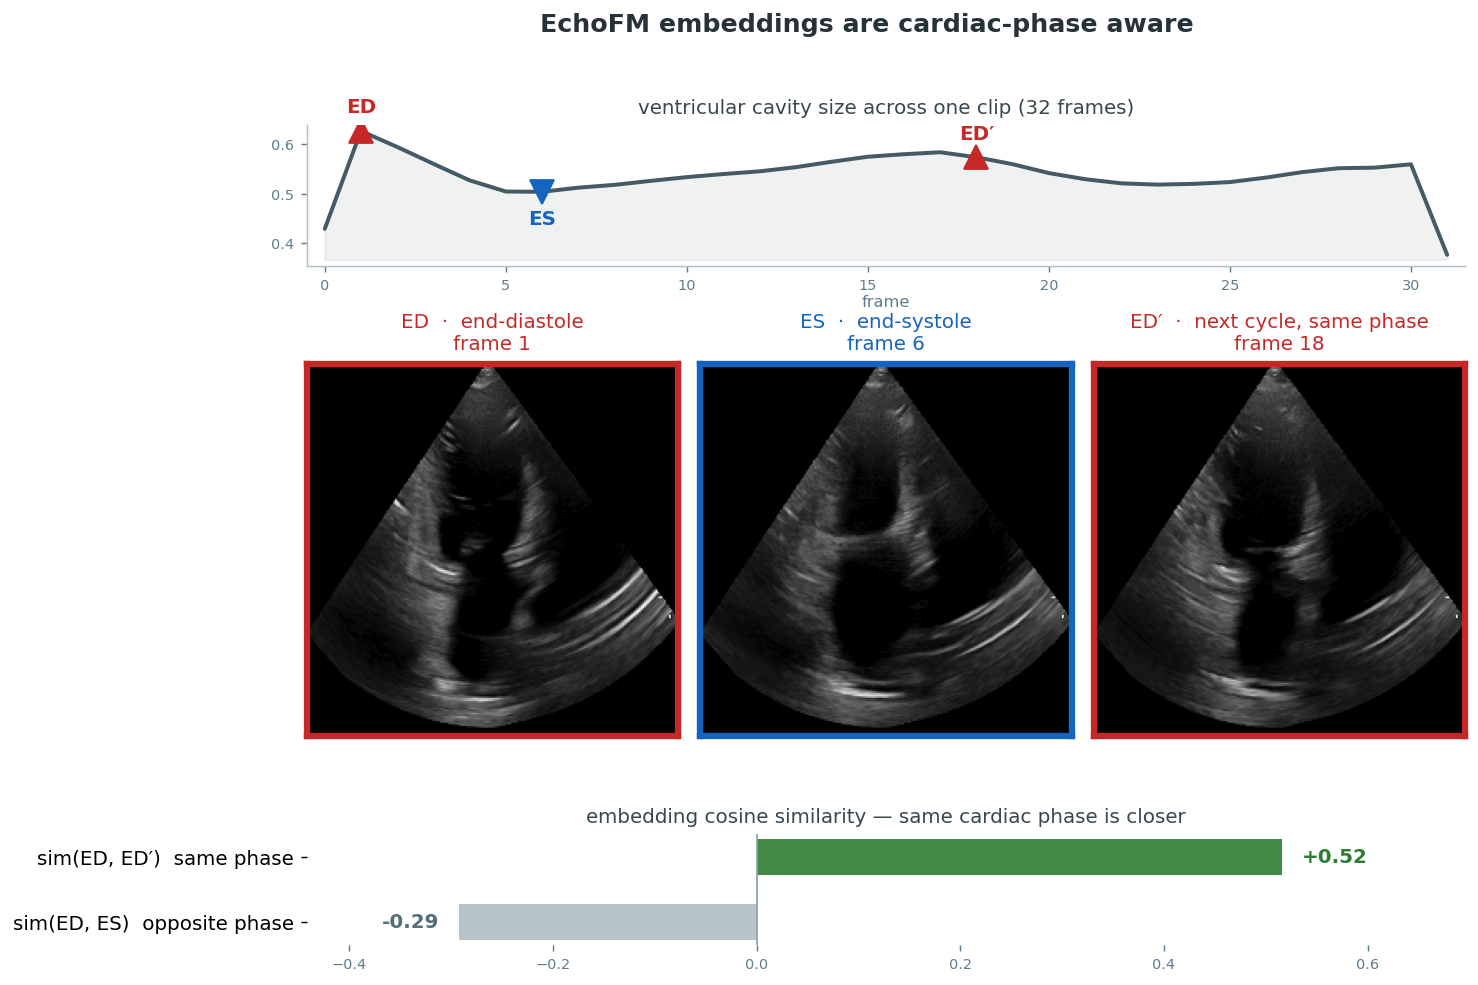
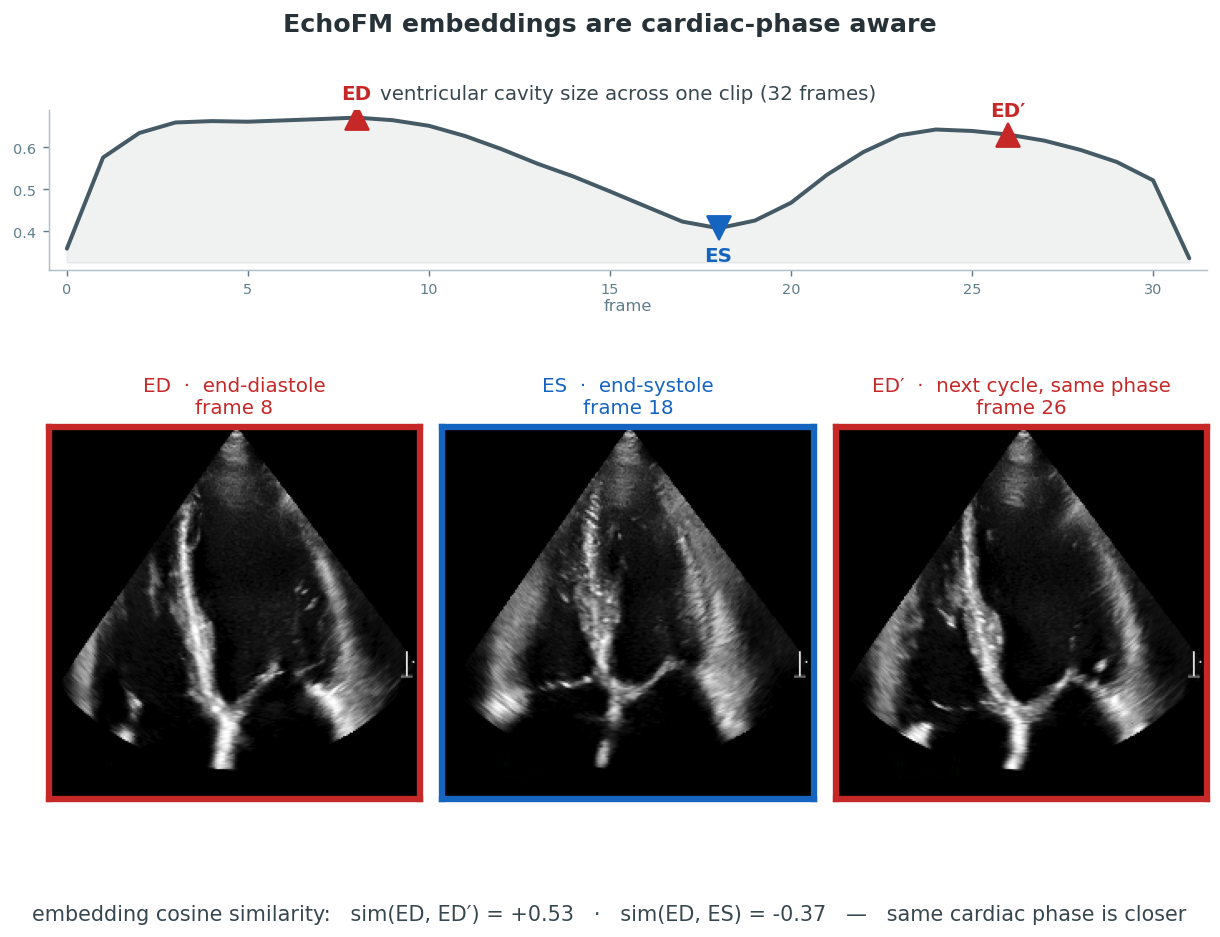
README: clearer ED/ES sample (contraction-ranked selection), drop arXiv badge, rework method description

diff --git a/tools/make_readme_figure.py b/tools/make_readme_figure.py
@@ -50,10 +50,8 @@ def is_bmode(imgs):
 
 
 def render(frames, area, ed1, es, ed2, e_same, e_opp, path):
-    fig = plt.figure(figsize=(11.5, 8.2), facecolor="white")
-    gs = fig.add_gridspec(
-        3, 3, height_ratios=[0.95, 2.6, 0.75], hspace=0.42, wspace=0.06
-    )
+    fig = plt.figure(figsize=(11.5, 7.2), facecolor="white")
+    gs = fig.add_gridspec(2, 3, height_ratios=[0.95, 2.6], hspace=0.42, wspace=0.06)
 
     ax = fig.add_subplot(gs[0, :])
     t = np.arange(len(area))
@@ -92,25 +90,10 @@ def render(frames, area, ed1, es, ed2, e_same, e_opp, path):
         ax.set_xticks([])
         ax.set_yticks([])
 
-    ax = fig.add_subplot(gs[2, :])
-    ax.barh([1, 0], [e_same, e_opp], height=0.55,
-            color=["#2e7d32", "#b0bec5"], alpha=0.9)
-    ax.set_yticks([1, 0])
-    ax.set_yticklabels(["sim(ED, ED′)  same phase", "sim(ED, ES)  opposite phase"],
-                       fontsize=11)
-    for y, v in [(1, e_same), (0, e_opp)]:
-        ax.text(v + (0.02 if v >= 0 else -0.02), y, f"{v:+.2f}",
-                va="center", ha="left" if v >= 0 else "right",
-                fontsize=11, fontweight="bold",
-                color="#2e7d32" if y == 1 else "#546e7a")
-    ax.axvline(0, color="#90a4ae", lw=1)
-    lo = min(0.0, e_opp) - 0.15
-    ax.set_xlim(lo, max(e_same, 0) + 0.18)
-    ax.set_title("embedding cosine similarity — same cardiac phase is closer",
-                 fontsize=11, color="#37474f")
-    for s in ax.spines.values():
-        s.set_visible(False)
-    ax.tick_params(axis="x", labelsize=8, colors="#607d8b")
+    fig.text(0.5, 0.015,
+             f"embedding cosine similarity:   sim(ED, ED′) = {e_same:+.2f}   ·   "
+             f"sim(ED, ES) = {e_opp:+.2f}   —   same cardiac phase is closer",
+             ha="center", fontsize=11.5, color="#37474f")
 
     fig.suptitle("EchoFM embeddings are cardiac-phase aware", fontsize=14,
                  fontweight="bold", color="#263238", y=0.985)
@@ -151,8 +134,13 @@ def main():
         tk = lambda f: min(f // 4, 7)
         if len({tk(ed1), tk(ed2), tk(es)}) < 3:
             continue
-        # require visible contraction in the cavity curve
-        if area[ed1] - area[es] < 0.03 or area[ed2] - area[es] < 0.03:
+        # visual clarity first: strong fractional contraction of the cavity
+        contraction = min(area[ed1], area[ed2]) - area[es]
+        frac = contraction / max(area[ed1], 1e-6)
+        if frac < 0.2:
+            continue
+        # visible image (not too dark)
+        if float(imgs.mean()) < 0.07:
             continue
         e = embed_sim_map(model, imgs)
         e_same = float(e[tk(ed1), tk(ed2)])
@@ -162,10 +150,11 @@ def main():
         # keep the exact sampled window: the dataset draws a random temporal
         # window per __getitem__, so re-loading would desync frames and labels
         candidates.append(
-            (e_same - e_opp, int(clip_i), ed1, es, ed2, e_same, e_opp,
+            (frac, int(clip_i), ed1, es, ed2, e_same, e_opp,
              imgs[0].cpu(), area)
         )
 
+    # rank by visual contraction, not embedding gap
     candidates.sort(key=lambda c: -c[0])
     print(f"{len(candidates)} strong B-mode candidates")
     for rank, (gap, clip_i, ed1, es, ed2, e_same, e_opp, imgs_c, area) in enumerate(

diff --git a/README.md b/README.md
@@ -1,7 +1,6 @@
 # EchoFM: A Video Vision Foundation Model for Echocardiography
 
 [![IEEE TMI](https://img.shields.io/badge/IEEE%20TMI-10.1109%2FTMI.2025.3580713-00629B)](https://ieeexplore.ieee.org/document/11040094)
-[![arXiv](https://img.shields.io/badge/arXiv-2410.23413-b31b1b)](https://arxiv.org/abs/2410.23413)
 [![Hugging Face](https://img.shields.io/badge/%F0%9F%A4%97%20Hugging%20Face-sekeun%2FEchoFM-FFD21E)](https://huggingface.co/sekeun/EchoFM)
 [![License](https://img.shields.io/badge/license-CC%20BY--NC--ND%204.0-lightgrey)](#license)
 
@@ -28,16 +27,19 @@ disease-detection tasks.
 
 ## How it works
 
-On top of a video MAE (75% masking, per-patch normalized targets), EchoFM adds two
-cycle-aware components:
+EchoFM's pretraining couples masked video modeling with the physiology of the beating
+heart. The objective rests on two pillars designed for echocardiography:
 
-- **Spatio-temporally consistent masking** — one spatial mask shared across all
-  frames, so the encoder must explain appearance changes through cardiac motion
-  rather than by copying from unmasked locations in other frames.
-- **Periodic contrastive learning** — a pixel-space cycle-similarity prior (motion
-  component only; the static anatomy component is removed) defines which frame pairs
-  share a cardiac phase. A hard-mined triplet loss and a dense similarity-distillation
-  (KL) loss transfer this periodic structure into the embedding space.
+- **Spatio-temporally consistent masked reconstruction.** One spatial mask is shared
+  across every frame of the clip (75% masking, per-patch normalized targets), so a
+  masked region stays hidden for the whole video. Reconstructing it forces the encoder
+  to model how cardiac motion deforms anatomy over time — copying the same patch from
+  a neighboring frame is impossible by construction.
+- **Periodic contrastive learning.** The cardiac cycle itself provides the supervision:
+  a pixel-space cycle-similarity prior (motion component only; the static anatomy
+  component is removed) identifies which frame pairs share a cardiac phase. A
+  hard-mined triplet loss and a dense similarity-distillation (KL) loss imprint this
+  periodic structure onto the embedding space.
 
 The result is directly measurable: end-diastole frames from *different* cycles
 (ED, ED′) embed close together, while ED vs. end-systole (ES) — half a cycle apart —
